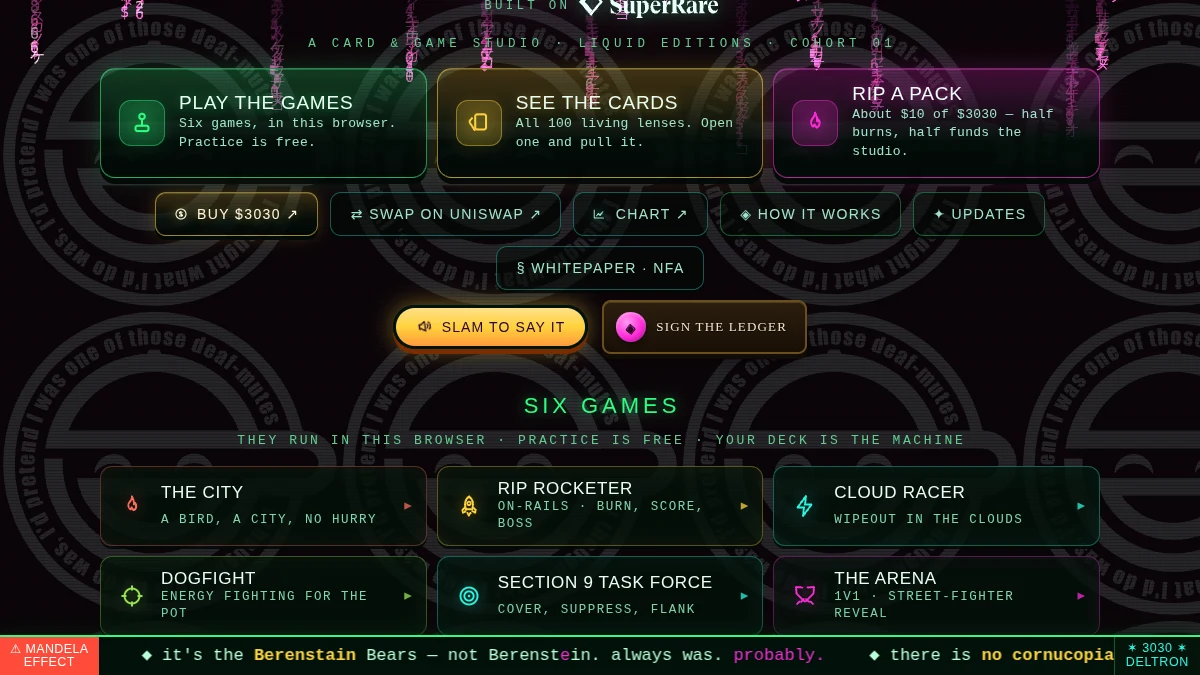
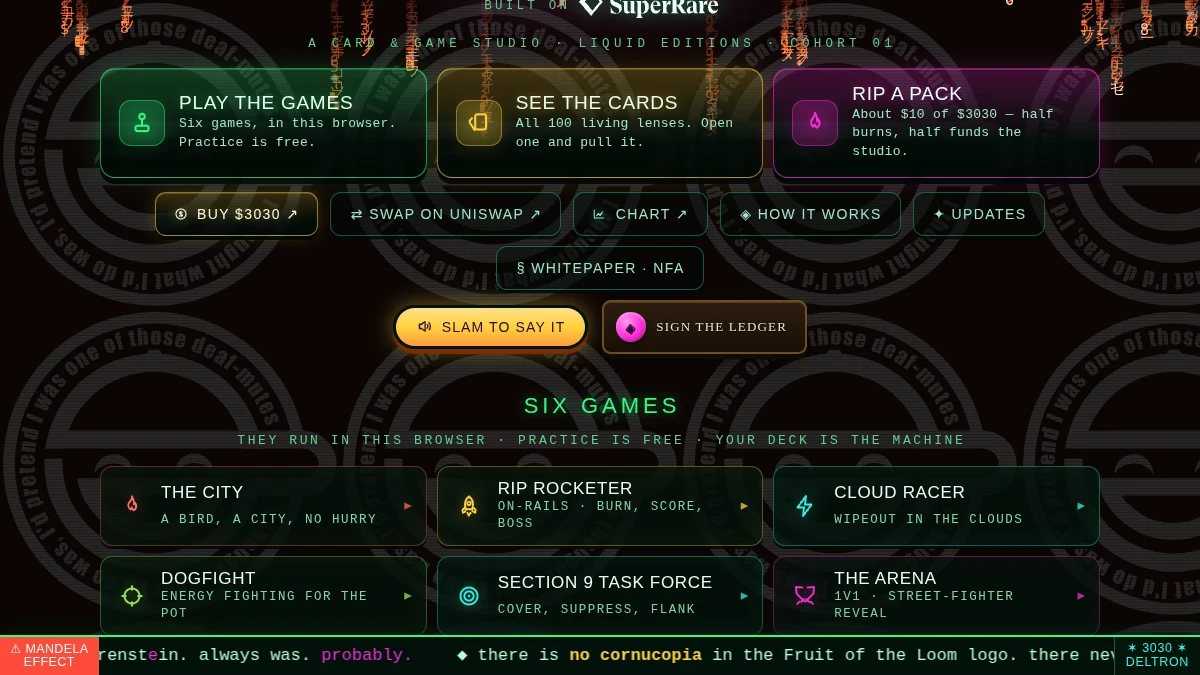
The swap link named what you buy and not what you pay with
Artist: "swap on uniswap doesn't take you to the eth pool". Correct, and
the reasoning that shipped it was half right.

swapUrl() set outputCurrency alone. That says what you are buying and
nothing about what you are paying with, so Uniswap opened on whatever
input it felt like and picked its own route — which is not the ETH pair
the studio just opened. A swap link missing its input is a link to a
different errand. It now names both sides: inputCurrency=ETH, so it
opens as ETH -> $3030.

What was right and is kept: it is keyed on CURRENCIES, not on a pool id.
The router picks the venue, so if the ETH pool is empty the swap routes
some other way instead of filling at a ruinous price inside it. Aiming
the buy link at a specific pool would remove that protection. When the
pool ITSELF is the destination — looking at it, or adding to it — that
is a different link, so RipWallet.poolUrl(quote) exists and that is the
one place a pool id belongs.

The depth line names every pool now, not just the deep one. Filtering to
pools with liquidity quietly hid the pair the studio had just created:
the artist made the ETH pool and would have found no mention of it
anywhere on the page. "ETH — no liquidity yet" is the honest version and
more useful than silence, because it tells a buyer why the swap routed
elsewhere and tells the studio the pool needs funding. Each name links
to its own Uniswap pool page, 44px on both axes.
[…]

diff --git a/index.html b/index.html
@@ -244,8 +244,13 @@
      full-width blocks between the wordmark and the first thing you can actually do */
   .hrow{ display:flex; flex-wrap:wrap; align-items:center; justify-content:center; gap:10px 14px; margin-top:10px; }
   /* the live pool-depth line — a reading, so it is quiet type and it is absent unless it read */
-  .mkt-depth{ margin:9px auto 0; max-width:60ch; text-align:center; font-family:var(--mono);
+  .mkt-depth{ margin:9px auto 0; max-width:66ch; text-align:center; font-family:var(--mono);
     font-size:var(--t-fine,12px); letter-spacing:.04em; color:var(--phosdim); }
+  /* ⚠ 44px on BOTH axes — a thumb is round, and these are the only controls on the page whose
+     label is generated, so their width is whatever the number happens to be. */
+  .mkt-depth a{ color:var(--phos); text-decoration:none; border-bottom:1px dotted currentColor;
+    display:inline-flex; align-items:center; min-height:44px; padding:0 4px; }
+  .mkt-depth a:hover, .mkt-depth a:focus-visible{ color:#8bffbb; }
   /* ⚠ A SHORT VIEWPORT IS A DIFFERENT PROBLEM FROM A NARROW ONE, and the masthead is where the
      two diverge: every row in it is cheap horizontally and expensive vertically, so a phone held
      sideways pays for the whole stack at once. `test:cab` records the same lesson from the other
@@ -1357,11 +1362,24 @@ a.addEventListener('keydown',function(e){if(e.key==='Enter'||e.key===' '){e.prev
     if (line && window.RipWallet && window.RipWallet.marketDepth) {
       window.RipWallet.marketDepth().then(r => {
         if (!r.live) return;                       // no reading ⇒ say nothing, not "unknown"
-        const usd = n => '$' + Math.round(n).toLocaleString('en-US');
-        const deep = r.pools.filter(p => p.usd > 0);
-        if (!deep.length) return;
-        line.textContent = 'deepest right now: ' + deep.map(p => p.quote + ' ' + usd(p.usd)).join(' · ')
-          + ' — read from the pools just now';
+        const usd = n => n >= 1 ? '$' + Math.round(n).toLocaleString('en-US') : 'no liquidity yet';
+        /* ⛔ EVERY POOL IS NAMED, NOT JUST THE DEEP ONE. The first version filtered to pools with
+           depth, which quietly hid the pair the studio had just opened — the artist made the ETH
+           pool and would have found no mention of it anywhere on the page. Saying "ETH — no
+           liquidity yet" is the honest version and it is more useful than silence: it tells a
+           buyer why the swap routed elsewhere, and it tells the studio the pool needs funding.
+           ⚑ Each name LINKS TO ITS OWN POOL on Uniswap — this is the one place a pool id belongs,
+           because here the pool itself is the destination rather than a route to fill through. */
+        const frag = document.createDocumentFragment();
+        r.pools.forEach((p, i) => {
+          if (i) frag.append(document.createTextNode('  ·  '));
+          const a = document.createElement('a');
+          a.href = p.pool; a.target = '_blank'; a.rel = 'noopener noreferrer';
+          a.textContent = p.quote + ' ' + usd(p.usd);
+          frag.append(a);
+        });
+        line.textContent = '';
+        line.append(document.createTextNode('pools, read just now: '), frag);
         line.hidden = false;
       }).catch(() => {});
     }

diff --git a/js/wallet.js b/js/wallet.js
@@ -468,12 +468,29 @@
    *   nothing in it — which is exactly the failure mode of the ETH pair on the day it was made.
    * ⚠ Returns '' when there is no edition configured, so a caller shows nothing rather than
    *   opening a swap screen with no token in it. */
-  const swapUrl = () => {
+  /* ⛔ BOTH SIDES, NOT JUST THE OUTPUT. The first version set `outputCurrency` alone, which says
+   *   what you are buying and NOTHING about what you are paying with — so Uniswap opened on
+   *   whatever input it felt like and chose its own route, and the artist's reply was exactly
+   *   right: "swap on uniswap doesn't take you to the eth pool". Naming the input is what makes
+   *   it the ETH pair. `ETH` is the native sentinel Uniswap's swap UI takes for mainnet.
+   * ⚑ IT IS STILL KEYED ON CURRENCIES RATHER THAN ON A POOL ID, and that is the part worth
+   *   keeping: the router picks the venue, so if the ETH pool is empty the swap routes some other
+   *   way instead of filling at a ruinous price inside it. Aiming at a specific pool would remove
+   *   that. Use poolUrl() when the pool ITSELF is the destination. */
+  const swapUrl = (quote) => {
     const m = (CFG().market || {});
     const t = token();
     if (!/^0x[0-9a-fA-F]{40}$/.test(String(t || '').trim())) return '';
     const host = m.swapHost || 'https://app.uniswap.org/swap';
-    return `${host}?chain=ethereum&outputCurrency=${t}`;
+    const inp = String(quote || m.swapInput || 'ETH').trim().toUpperCase();
+    return `${host}?chain=ethereum&inputCurrency=${encodeURIComponent(inp)}&outputCurrency=${t}`;
+  };
+  /* The pool page itself — for looking at a market or adding to it, which is a different errand
+   * from buying and is the one place a pool id belongs. '' when that pair is not configured. */
+  const poolUrl = (quote) => {
+    const q = String(quote || '').trim().toUpperCase();
+    const hit = markets().find(p => p.quote.toUpperCase() === q);
+    return hit ? hit.pool : '';
   };
   /* Read the live depth of every market, so a page can route people to the pool that can actually
    * fill them instead of to whichever one somebody typed first. ⚠ FAILS OPEN AND SAYS SO: on any
@@ -527,7 +544,7 @@
     hasWallet: () => !!injected() || !!wcProjectId(),
     hasInjected: () => !!injected(),
     hasWalletConnect: () => !!wcProjectId(),
-    isLive, buyUrl, chartUrl, swapUrl, markets, marketDepth, explorerAddr, explorerTx,
+    isLive, buyUrl, chartUrl, swapUrl, poolUrl, markets, marketDepth, explorerAddr, explorerTx,
     chainName: () => (CHAINS[wantChainId()] || {}).name || ('chain ' + wantChainId()),
     /* ⛔ WHERE THE WALLET ACTUALLY IS, WHICH IS NOT WHAT chainName() ANSWERS. chainName() reports
      *   the CONFIGURED chain, and the ledger printed it under the heading "The house" — i.e. it

diff --git a/updates.html b/updates.html
@@ -276,14 +276,14 @@ screenshot of the page it describes, taken from the live site rather than drawn.
     </div>
     <a class="upd-shot" href="index.html">
       <img src="media/updates/buy-with-eth.webp" width="1200" height="675" loading="lazy"
-           alt="The front page button row: BUY $3030, SWAP ON UNISWAP and CHART, with the live pool-depth line under it."></a>
+           alt="The front page button row: BUY $3030, SWAP ON UNISWAP and CHART, with the live pool list under it."></a>
     <div class="upd-post">
-      <p class="upd-blurb" data-post="there's a $3030/ETH pool now, so you don't have to buy RARE first. SWAP ON UNISWAP is on the front page, with $3030 already selected. the site reads both pools live and tells you which one has the depth. NFA.
+      <p class="upd-blurb" data-post="there's a $3030/ETH pool now, so you don't have to buy RARE first. SWAP ON UNISWAP opens ETH → $3030 straight off the front page, and the site reads all three pools live so you can see which one has depth. NFA.
 
-ripmaster3030studios.com">there's a $3030/ETH pool now, so you don't have to buy RARE first. SWAP ON UNISWAP is on the front page, with $3030 already selected. the site reads both pools live and tells you which one has the depth. NFA.<br><br>ripmaster3030studios.com</p>
+ripmaster3030studios.com">there's a $3030/ETH pool now, so you don't have to buy RARE first. SWAP ON UNISWAP opens ETH → $3030 straight off the front page, and the site reads all three pools live so you can see which one has depth. NFA.<br><br>ripmaster3030studios.com</p>
       <div class="upd-act">
         <button type="button" class="upd-copy" data-for="buy-with-eth">COPY</button>
-        <span class="upd-count">234 / 280</span>
+        <span class="upd-count">236 / 280</span>
         <a class="upd-go" href="index.html">see it ↗</a>
       </div>
     </div>
